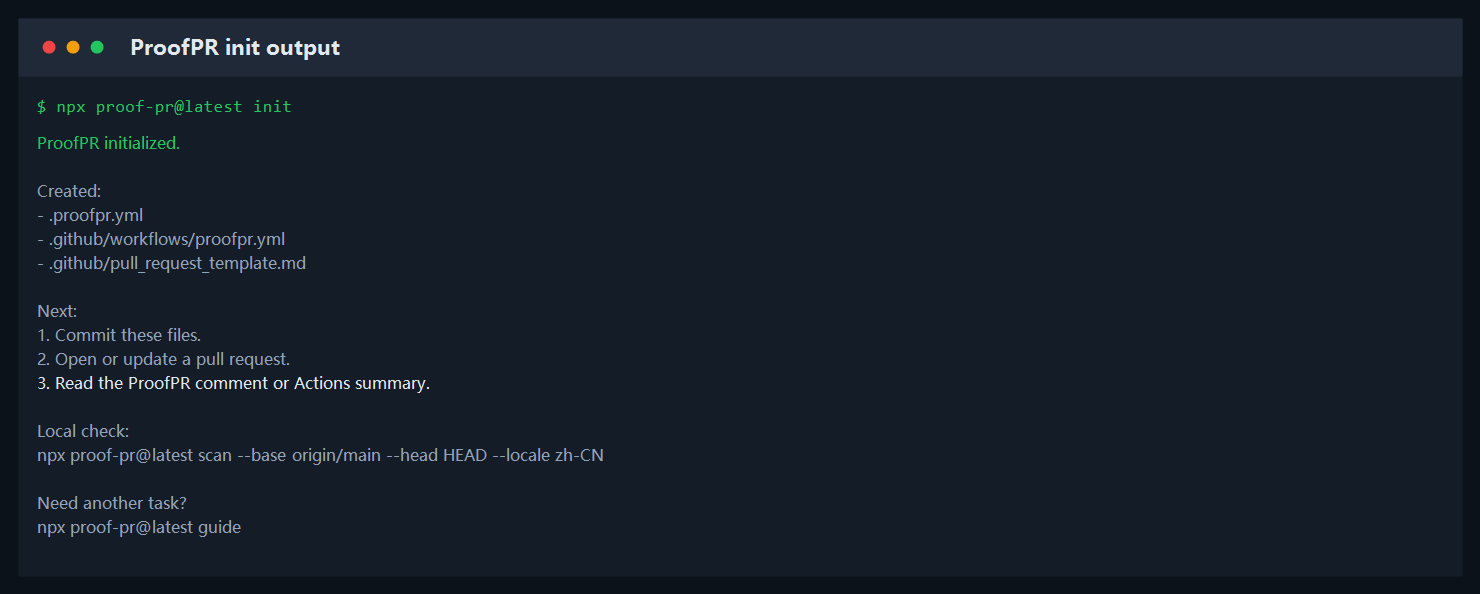
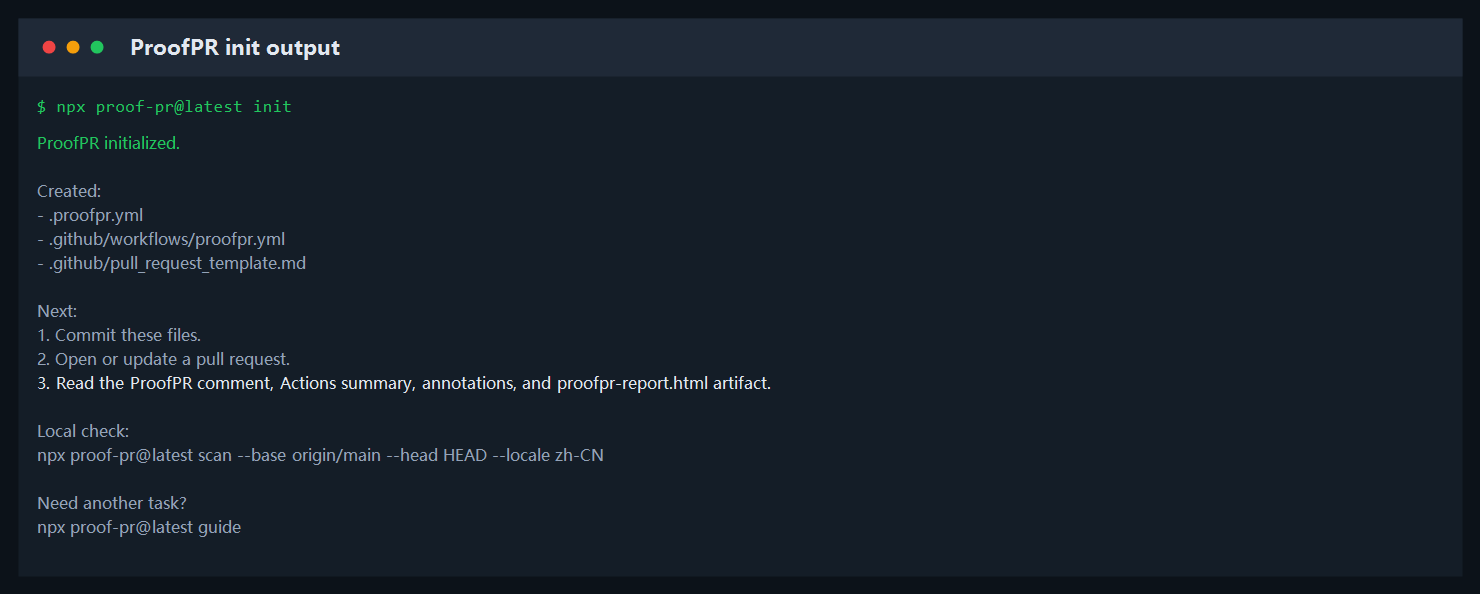
feat: upload default visual report artifact

Changed region(s): [[0.0311, 0.6364, 0.5284, 0.6667]]

diff --git a/packages/cli/src/index.ts b/packages/cli/src/index.ts
@@ -47,6 +47,8 @@ interface InitCommandOptions {
   workflowPath: string;
   prTemplate: boolean;
   prTemplatePath: string;
+  htmlReport: boolean;
+  htmlOutput: string;
   preset: ConfigPreset;
   failOn: FailLevel;
   force: boolean;
@@ -415,6 +417,8 @@ program
     "Path to write the pull request template.",
     ".github/pull_request_template.md"
   )
+  .option("--no-html-report", "Skip writing and uploading the default HTML visual report artifact.")
+  .option("--html-output <path>", "Path for the HTML report generated in GitHub Actions.", "proofpr-report.html")
   .option(
     "--preset <preset>",
     `Config preset: ${listConfigPresets().join(", ")}.`,
@@ -425,7 +429,11 @@ program
   .option("--force", "Overwrite existing files.", false)
   .action(async (options: InitCommandOptions) => {
     await writeIfMissing(options.configPath, renderConfigTemplate(options.preset), options.force);
-    await writeIfMissing(options.workflowPath, renderWorkflowTemplate(options.failOn), options.force);
+    await writeIfMissing(
+      options.workflowPath,
+      renderWorkflowTemplate(options.failOn, options.htmlReport, options.htmlOutput),
+      options.force
+    );
     const created = [options.configPath, options.workflowPath];
     const skipped: string[] = [];
 
@@ -444,7 +452,7 @@ program
     }
 
     process.stdout.write(
-      `ProofPR initialized.\n\nCreated:\n${created.map((item) => `- ${item}`).join("\n")}${skipped.length > 0 ? `\n\nSkipped:\n${skipped.map((item) => `- ${item}`).join("\n")}` : ""}\n\nNext:\n1. Commit these files.\n2. Open or update a pull request.\n3. Read the ProofPR comment or Actions summary.\n\nLocal check:\nnpx proof-pr@latest scan --base origin/main --head HEAD --locale zh-CN\n\nNeed another task?\nnpx proof-pr@latest guide\n`
+      `ProofPR initialized.\n\nCreated:\n${created.map((item) => `- ${item}`).join("\n")}${skipped.length > 0 ? `\n\nSkipped:\n${skipped.map((item) => `- ${item}`).join("\n")}` : ""}\n\nNext:\n1. Commit these files.\n2. Open or update a pull request.\n3. Read the ProofPR comment, Actions summary, annotations${options.htmlReport ? `, and ${options.htmlOutput} artifact` : ""}.\n\nLocal check:\nnpx proof-pr@latest scan --base origin/main --head HEAD --locale zh-CN\n\nNeed another task?\nnpx proof-pr@latest guide\n`
     );
   });
 
@@ -497,7 +505,7 @@ function renderGuide(): string {
 
 1. 接入 GitHub PR 自动检查
    npx proof-pr@latest init
-   然后提交 .proofpr.yml、.github/workflows/proofpr.yml 和 .github/pull_request_template.md，打开 PR 后看评论和 Actions summary。
+   然后提交 .proofpr.yml、.github/workflows/proofpr.yml 和 .github/pull_request_template.md，打开 PR 后看评论、Actions summary、annotations 和 HTML artifact。
 
 2. 体检当前仓库接入状态
    npx proof-pr@latest doctor
@@ -534,7 +542,7 @@ function renderGuide(): string {
    打开 .proofpr.yml，把 preset 改成 security-strict、dependency-careful 或 mcp-security。
 
 结果在哪里看：
-- GitHub Action：PR Conversation 评论、Actions summary、Checks 状态。
+- GitHub Action：PR Conversation 评论、Actions summary、Checks 状态、workflow annotations、proofpr-report artifact。
 - 本地 CLI：终端输出；如果用了 --output，就看写出的 HTML / JSON / SARIF / Markdown 文件。
 `;
 }
@@ -670,6 +678,20 @@ function inspectWorkflow(workflow: string, checks: DoctorCheck[], nextSteps: Set
   } else {
     checks.push({ level: "warn", title: "workflow 未显式声明 contents: read" });
     nextSteps.add("建议在 workflow permissions 中加入 contents: read。");
+  }
+
+  if (/html-output\s*:/.test(workflow)) {
+    checks.push({ level: "pass", title: "workflow 会生成 HTML 可视化报告" });
+
+    if (/actions\/upload-artifact@v\d+/.test(workflow)) {
+      checks.push({ level: "pass", title: "workflow 会上传 proofpr-report artifact" });
+    } else {
+      checks.push({ level: "warn", title: "HTML 报告已生成，但没有上传为 artifact" });
+      nextSteps.add("在 workflow 里加入 actions/upload-artifact@v4，把 proofpr-report.html 上传为 proofpr-report。");
+    }
+  } else {
+    checks.push({ level: "warn", title: "workflow 未启用 HTML 可视化报告 artifact" });
+    nextSteps.add("想让新用户更直观看报告时，重新运行 npx proof-pr@latest init --force，或在 Action step 中加入 html-output: proofpr-report.html。");
   }
 }
 
@@ -838,7 +860,18 @@ comment:
 `;
 }
 
-function renderWorkflowTemplate(failOn: FailLevel): string {
+function renderWorkflowTemplate(failOn: FailLevel, htmlReport: boolean, htmlOutput: string): string {
+  const htmlReportSteps = htmlReport
+    ? `          html-output: ${htmlOutput}
+      - name: Upload ProofPR visual report
+        if: always()
+        uses: actions/upload-artifact@v4
+        with:
+          name: proofpr-report
+          path: ${htmlOutput}
+`
+    : "";
+
   return `name: ProofPR
 
 on:
@@ -859,7 +892,7 @@ jobs:
           fail-on: ${failOn}
           comment: "true"
           annotations: "true"
-`;
+${htmlReportSteps}`;
 }
 
 function renderPullRequestTemplate(): string {

diff --git a/docs/commands.md b/docs/commands.md
@@ -19,7 +19,7 @@ npx proof-pr@latest guide
 | 你想做什么 | 什么时候用 | 复制这条命令 | 结果在哪里看 |
 | --- | --- | --- | --- |
 | 不接入仓库，先体验报告 | 第一次了解 ProofPR | `npx proof-pr@latest demo workflow --locale zh-CN` | 当前终端 |
-| 接入 GitHub PR 自动检查 | 第一次给仓库安装 ProofPR | `npx proof-pr@latest init` | PR 评论、Actions summary、Checks |
+| 接入 GitHub PR 自动检查 | 第一次给仓库安装 ProofPR | `npx proof-pr@latest init` | PR 评论、Actions summary、Checks、HTML artifact |
 | 体检接入状态 | 安装后不知道是否配置正确 | `npx proof-pr@latest doctor` | 当前终端 |
 | 单独补 PR 模板 | 已接入仓库但缺少 PR 模板 | `npx proof-pr@latest template` | `.github/pull_request_template.md` |
 | 本地检查当前分支 | 发 PR 前自查 | `npx proof-pr@latest scan --base origin/main --head HEAD --locale zh-CN` | 当前终端 |
@@ -71,7 +71,7 @@ npx proof-pr@latest init
 - `.github/workflows/proofpr.yml`
 - `.github/pull_request_template.md`
 
-提交这些文件后，打开或更新 Pull Request，ProofPR 会自动运行。PR 模板会提醒贡献者补充验证、复现、截图、changelog 和权限理由。
+提交这些文件后，打开或更新 Pull Request，ProofPR 会自动运行。默认结果会出现在 PR 评论、Actions summary、workflow annotations 和 `proofpr-report` artifact。PR 模板会提醒贡献者补充验证、复现、截图、changelog 和权限理由。
 
 如果你的仓库已经接入过 ProofPR，只想单独补 PR 模板：
 
@@ -103,6 +103,7 @@ npx proof-pr@latest doctor
 - workflow 是否监听 `pull_request`。
 - workflow 是否使用当前推荐的 `linsk27/proof-pr@v0.1.16`。
 - 是否具备 `pull-requests: write` 和 `contents: read` 权限。
+- 是否启用了 `html-output` 和 `actions/upload-artifact`，方便下载 HTML 可视化报告。
 - 当前目录是否在 Git 仓库里，以及 `origin/main...HEAD` diff 是否可读。
 
 如果你的主分支不是 `main`，可以这样指定：

diff --git a/docs/getting-started.md b/docs/getting-started.md
@@ -32,7 +32,7 @@ npx proof-pr@latest init
 - `.github/workflows/proofpr.yml`
 - `.github/pull_request_template.md`
 
-把这些文件提交到仓库，打开或更新 PR，就会自动生成报告。PR 模板会提醒贡献者写清验证、复现、截图、changelog 和权限理由。
+把这些文件提交到仓库，打开或更新 PR，就会自动生成报告。默认会同时输出 PR 评论、Actions summary、workflow annotations 和 `proofpr-report.html` artifact。PR 模板会提醒贡献者写清验证、复现、截图、changelog 和权限理由。
 
 安装后可以先体检一次：
 
@@ -77,9 +77,16 @@ jobs:
           fail-on: high
           comment: "true"
           annotations: "true"
+          html-output: proofpr-report.html
+      - name: Upload ProofPR visual report
+        if: always()
+        uses: actions/upload-artifact@v4
+        with:
+          name: proofpr-report
+          path: proofpr-report.html
 ```
 
-这个默认配置已经够试用：只在 PR 事件运行，风险达到 `high` 时才让检查失败。
+这个默认配置已经够试用：只在 PR 事件运行，风险达到 `high` 时才让检查失败，并把 HTML 可视化报告保存成 workflow artifact。
 
 ## 它什么时候运行？
 
@@ -106,6 +113,7 @@ on:
 - 仓库 `Actions` 页面：这里可以看到 `ProofPR` workflow 的运行日志和 job summary。
 - PR 顶部的 checks 状态：如果风险达到 `fail-on` 阈值，检查项会失败，提醒维护者先处理风险。
 - GitHub annotations：`v0.1.5` 起会把 finding 输出为 workflow annotations，方便在 PR 文件视图里定位。
+- Actions artifact：默认会上传 `proofpr-report`，里面是可搜索、可筛选、可复制补证清单的 `proofpr-report.html`。
 
 ## 生成的配置
 

diff --git a/docs/zero-to-one.md b/docs/zero-to-one.md
@@ -19,6 +19,7 @@ npx proof-pr@latest demo workflow --locale zh-CN
 - 一条 `ProofPR 审查报告` PR 评论。
 - 一份 GitHub Actions job summary。
 - 一组 GitHub annotations，用来定位具体 finding。
+- 一个 `proofpr-report` artifact，里面是可搜索、可筛选的 HTML 可视化报告。
 - 可选的 SARIF 文件，上传到 GitHub Code Scanning。
 
 ![ProofPR 输出位置示意图](assets/proofpr-output-locations.svg)
@@ -39,7 +40,7 @@ npx proof-pr@latest init
 - `.github/workflows/proofpr.yml`
 - `.github/pull_request_template.md`
 
-默认配置已经会输出中文报告，并使用开源维护者预设。PR 模板会引导贡献者补充验证、复现、截图、changelog 和权限理由。
+默认配置已经会输出中文报告、上传 HTML 可视化报告，并使用开源维护者预设。PR 模板会引导贡献者补充验证、复现、截图、changelog 和权限理由。
 
 如果你中途忘了某个功能怎么用，运行：
 
@@ -101,6 +102,7 @@ git commit -m "chore: add ProofPR"
 
 - job summary：完整 Markdown 报告。
 - annotations：高风险 finding 会变成 GitHub 注解。
+- artifact：默认名为 `proofpr-report`，下载后打开 `proofpr-report.html`，可以筛选风险、搜索文件/规则，并复制补证清单。
 - 如果 finding 有行号，例如 MCP 的 `command`、`args`、`env`，annotation 会尽量定位到具体行。
 
 ## 可选：以后再调规则
@@ -218,6 +220,7 @@ steps:
 
 - PR 评论区有 `ProofPR 审查报告`。
 - Actions 的 `ProofPR` workflow 成功运行。
+- Actions 运行详情里有 `proofpr-report` artifact。
 - 报告里有 `风险等级`、`证据评分`、`Review 门禁`、`Review 行动清单`。
 
 如果没有评论，优先检查 workflow 权限：

diff --git a/CHANGELOG.md b/CHANGELOG.md
@@ -2,7 +2,9 @@
 
 ## Unreleased
 
-暂无。
+- `init` 生成的 GitHub workflow 默认写出 `proofpr-report.html` 并上传为 `proofpr-report` artifact，让首次接入就能看到可视化报告。
+- `doctor` 新增 HTML artifact 体检，提醒 workflow 是否启用了 `html-output` 和 `actions/upload-artifact`。
+- README、快速开始、从 0 到 1 文档和输出位置图同步说明 PR 评论、Actions summary、annotations、HTML artifact 的查看路径。
 
 ## 0.1.16 - 2026-05-12
 
